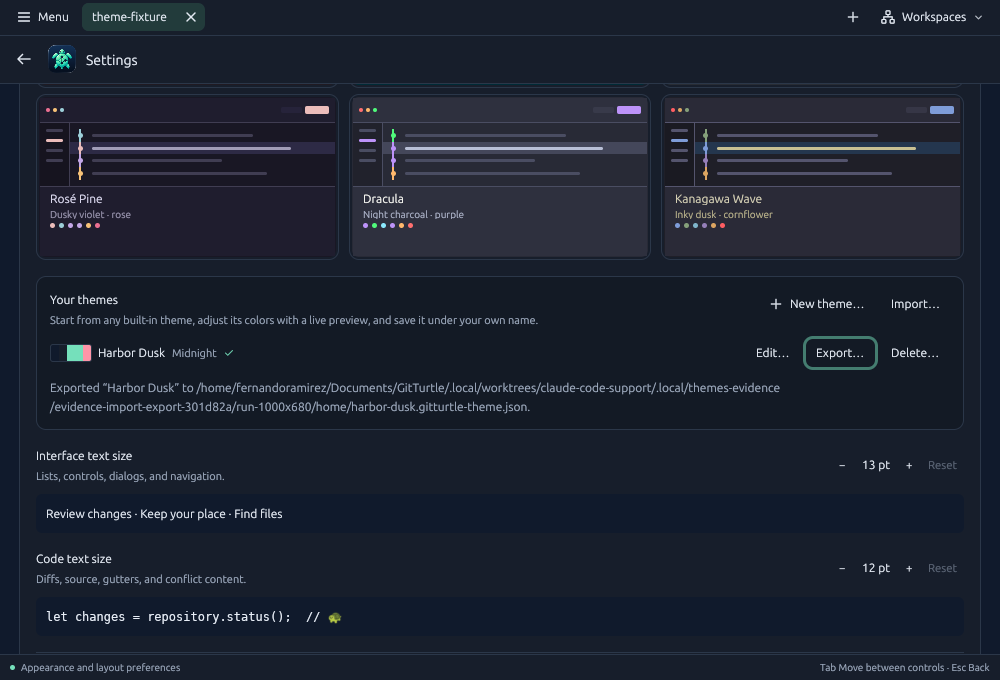
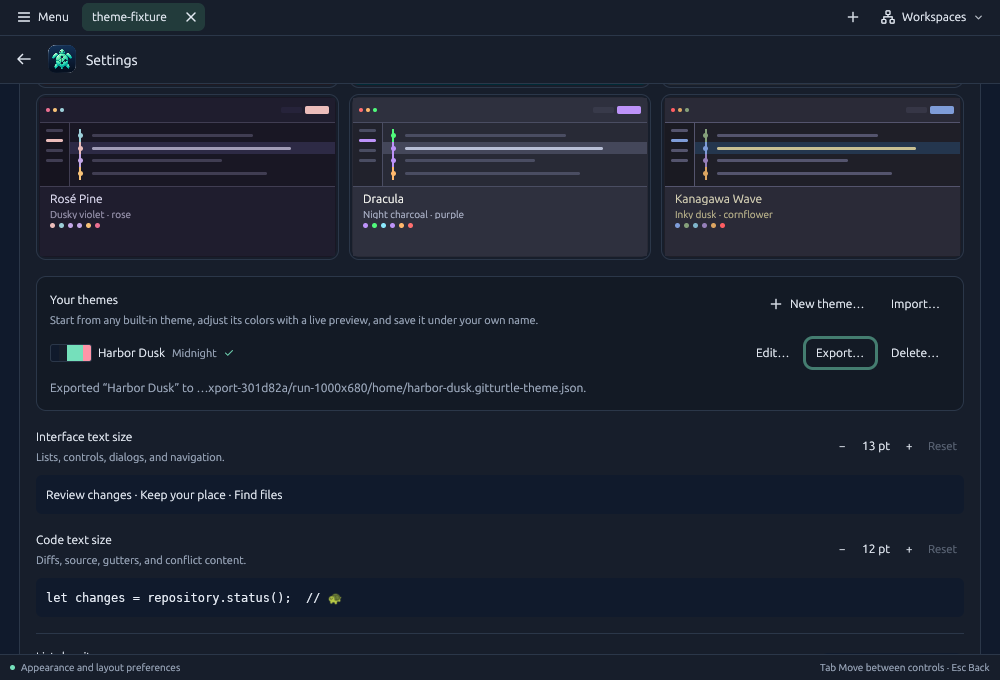
docs(evidence): re-take the export notice frames from the clamped build
(cherry picked from commit dae294f4d6d8cccf07ea1d05de35dc9e2028c736)

diff --git a/docs/validation.md b/docs/validation.md
@@ -27,7 +27,12 @@ ships export and import reuses these captures only when it renders them
 identically, which the evidence driver re-checks pixel for pixel. Two captures,
 `transfer-1000x680-07-exported.png` and `transfer-1440x900-07-exported.png`,
 quote the absolute path they wrote, so that re-check has to pass the same output
-directories it used here.
+directories it used here, and in fact they did not: the shipping revision clamps that
+path, so the notice became one line instead of two and the card 134 px instead of
+153. **Those two frames were therefore re-taken from the shipping revision
+`ea70c6a169882433c3b9659db5b391187c1488a1` and are the only two here not from the
+revision named above**; the other 24 artifacts are byte-identical between the two
+builds, which is what the re-check established.
 
 Five launches, 52 checks passed and none failed. Export, an Escape-cancelled
 export, a delete, an import of that document, two name collisions, an
